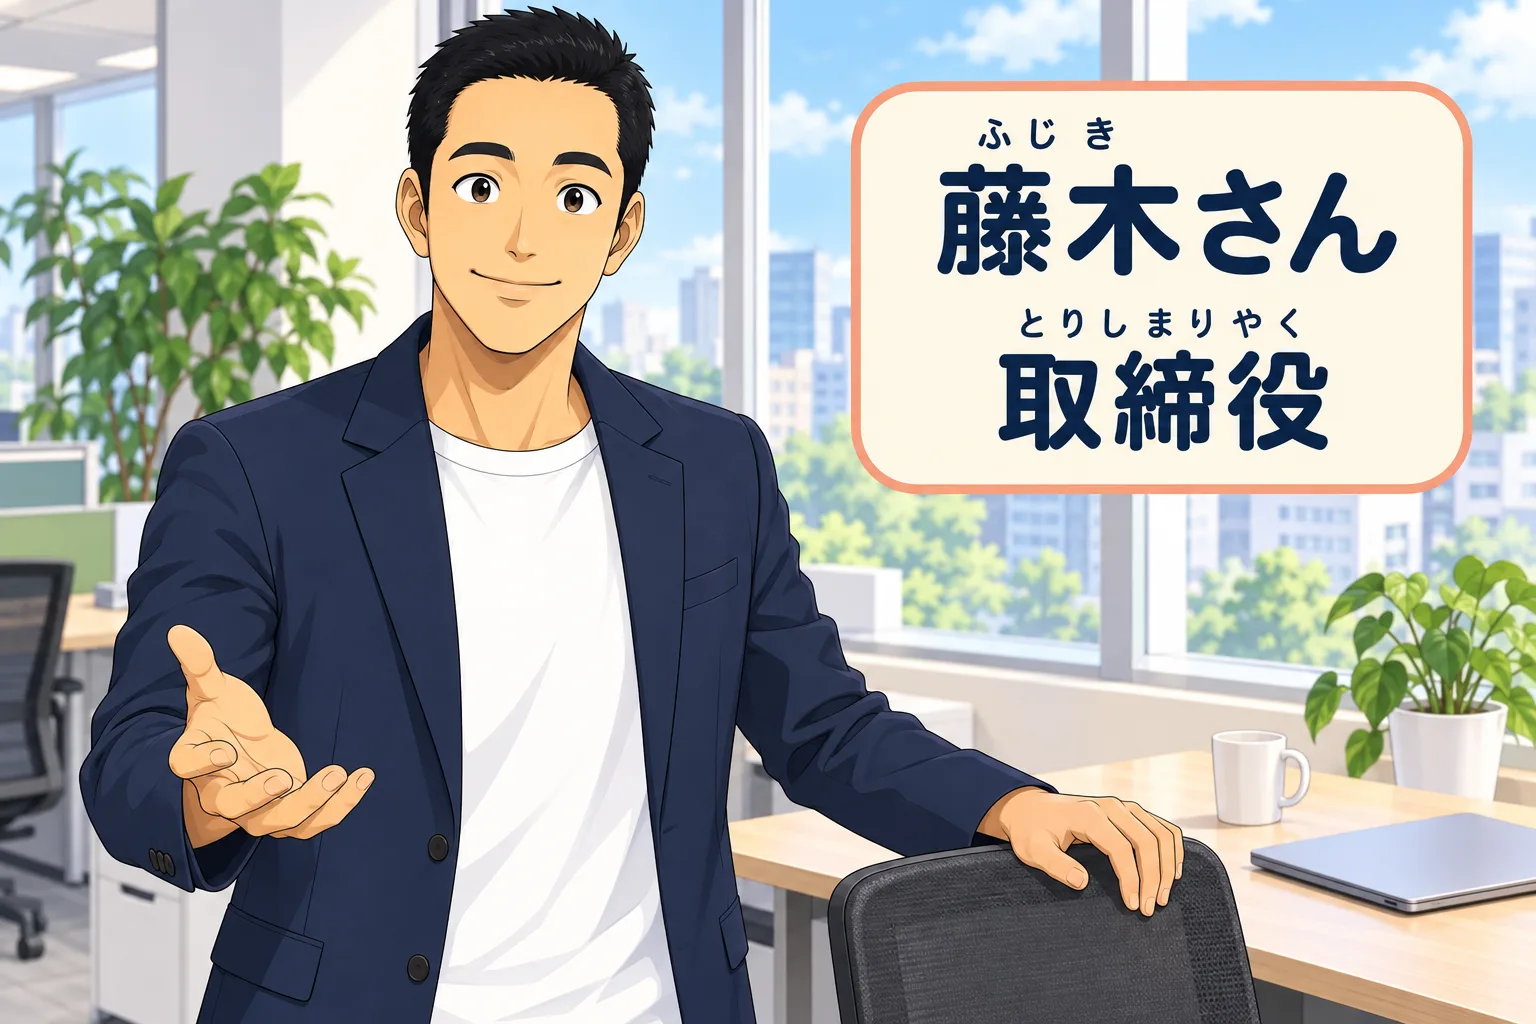
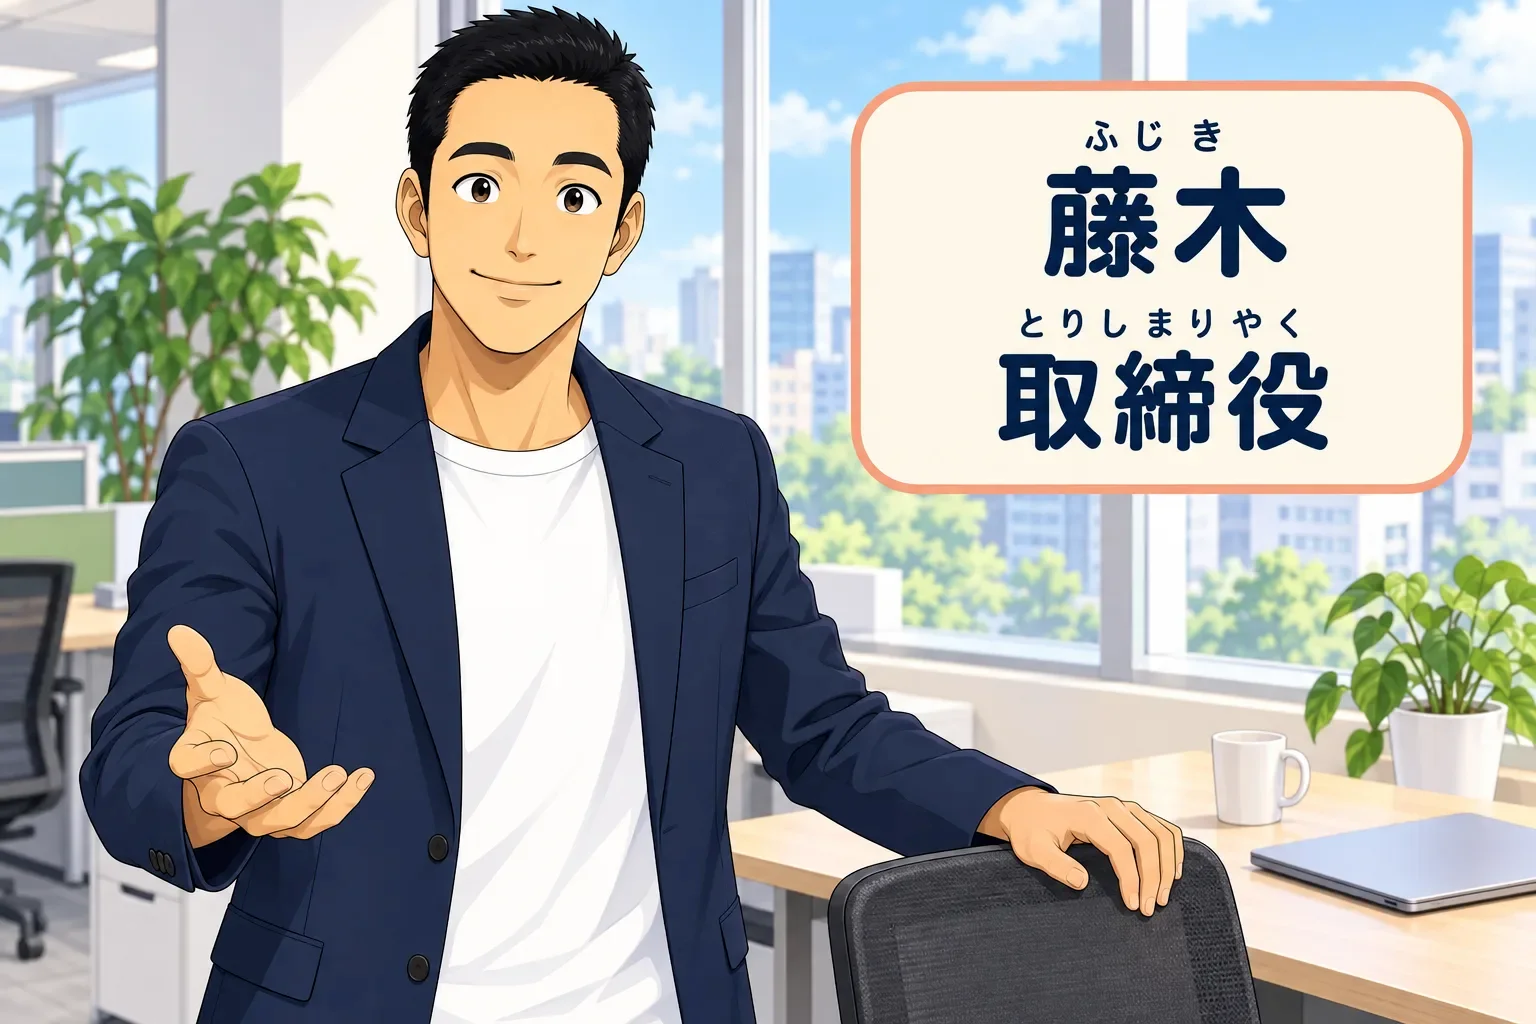
リスニング「悪い ニュースの 報告」の 表紙を 差しかえる（札を 藤木さん → 藤木）
いただいた cover.webp（1536×1024・118.6KB）に 差しかえた。絵は これまでと 同じで、
右上の 札の 字だけが「藤木さん」から「藤木」に なって いる。本文の セリフは
これまでどおり「藤木さん」と 呼ぶ（変えて いない）。

**札の 字は 3か所で 持って いる**ので 全部 そろえた——ここが ずれると、
先生が スタジオから「少し 直して 作り直す」を 押した ときに **古い 指示で
再生成される**（いちばん 気づけない 壊れ方。gen_hourensou_content.mjs の 註）。

- public/img/listening/houkoku_listening/cover.webp … 絵その もの
- scripts/images/houkoku_listening_fujiki.json … 台帳（生成の 正）の `text`
- content/listening/houkoku_listening.json … 教材に 焼かれた `cover.prompt`
- src/content/asset-versions.generated.ts … 版番号（`npm run gen:content` で 更新。
  これを 忘れると 古い 絵が キャッシュから 出つづける）

検証: vitest 117ファイル 1713件 緑（image_size を 含む）。lint:content エラー 0。
大きさ・縦横（1536×1024）は 差しかえ前と 同じ。

Changed region(s): [[0.5938, 0.125, 0.9062, 0.2812]]

diff --git a/src/content/git-contents.generated.ts b/src/content/git-contents.generated.ts
@@ -87,7 +87,7 @@ export const GIT_CONTENTS: readonly unknown[] = [
   // content/links/youken_recruit_sample.json
   {"kind":"link","id":"youken_recruit_sample","title":"完成例：Aoba 採用ページ","description":"先生が 要件定義書を もとに 作った 採用ページです。自分たちの ワイヤーフレームと 見くらべましょう。","url":"/tools/youken/recruit.html","view":"fullscreen","height":720,"newTab":false,"note":"上から 下まで 見て、2つの 仕事の ちがいが どこで わかるか さがして ください。","furigana":[["要件定義書","ようけんていぎしょ"],["完成例","かんせいれい"],["完成","かんせい"],["採用","さいよう"],["先生","せんせい"],["作っ","つくっ"],["自分","じぶん"],["写真","しゃしん"],["物語","ものがたり"],["仕事","しごと"],["応募","おうぼ"],["例","れい"],["見","み"],["上","うえ"],["下","した"],["私","わたし"]]},
   // content/listening/houkoku_listening.json
-  {"kind":"listening","id":"houkoku_listening","title":"リスニング：悪い ニュースの 報告","description":"ヘンディさんが、上司の 藤木さんに 報告を します。藤木さんは ネクストメイクの「取締役」です。藤木さんは、いつも お客様と 直接 話を して います。ですから、もし ヘンディさんの プログラミングで 何か 問題が あっても、藤木さんが お客様に すぐ 確認して くれます。","focus":"ヘンディさんが 悪い ニュースを どう 伝えるかに 注目して 聞いて みましょう。","participants":[{"id":"hendy","name":"ヘンディ","role":"プログラマー","accent":"leaf"},{"id":"fujiki","name":"藤木","role":"取締役","accent":"sky"}],"script":[{"speaker":"narration","text":"はじめに「報告」に ついて 話します。"},{"speaker":"narration","text":"プログラミングで スケジュールに 遅れそうな とき、どう しますか。"},{"speaker":"narration","text":"「怒られるかも しれない」と 思って、隠す ことは いけません。"},{"speaker":"narration","text":"悪い ニュースほど、早く 言わなければ なりません。"},{"speaker":"narration","text":"これは とても 大切です。では、会話を 聞いて みましょう。"},{"speaker":"hendy","text":"藤木さん、お伝えしたい ことが あるんですが、今 少し お時間 よろしいでしょうか。"},{"speaker":"fujiki","text":"はい、何ですか。"},{"speaker":"hendy","text":"今 作って いる システムに 問題が あります。文字を 入力すると システムが 止まって しまうという バグが 見つかりました。おそらく 設定の ミスだと 思います。"},{"speaker":"fujiki","text":"そうですか。直すのに、どのくらい 時間が かかりますか。来週の テストに 間に合いますか。"},{"speaker":"hendy","text":"調べて みましたが、1日くらい かかりそうです。ですから、来週の テストを 1日 遅らせて いただけませんでしょうか。"},{"speaker":"fujiki","text":"わかりました。テストが 遅れるのは 困りますが、テストの 途中で 止まるより いいです。正直に、早く 教えて くれて ありがとう ございます。予定を 変えますから、すぐに 直して ください。"},{"speaker":"hendy","text":"ありがとう ございます。すぐに 始めます。"}],"audioUrl":"/audio/hourensou/houkoku.wav","cover":{"src":"/img/listening/houkoku_listening/cover.webp","prompt":"Warm modern anime illustration, like a friendly Japanese educational manga — clean confident black linework, flat cel shading with gentle light, bright natural daylight, soft pastel palette of sky blue, cream and coral, rounded friendly shapes. A tidy contemporary Japanese software office with real desks, chairs, windows, plants, mugs and laptops. People are drawn as real human beings with natural proportions, warm friendly faces and exactly five fingers on each hand. Every picture is a REAL PLACE seen from a natural camera angle, and the subject FILLS THE WHOLE FRAME. The label sits on a soft cream panel with a rounded border, large and easy to read in one pass. Fujiki the director, ALONE — he is the only person in the picture. Taken from the attached character sheet: a Japanese man in his late twenties, very short cropped black hair, smooth flat skin with absolutely no nasolabial folds and no cheek or forehead lines, thick eyebrows, big bright dark brown eyes, navy blazer worn open over a plain white crew-neck T-shirt, no tie, no glasses. He stands beside his desk in a bright contemporary Japanese software office, turned toward the viewer, seen from the waist up and filling the left two thirds of the frame — the camera is where the young employee who has come to talk to him would stand. His expression is warm and attentive with a calm closed-mouth smile and eyebrows lifted a little in interest: he is ready to LISTEN, not to scold. One hand is open at chest height in a welcoming 'please, go ahead' gesture, the other rests lightly on the back of his office chair; exactly five fingers on each hand, no tangled or merged fingers. Behind him a big window with soft daylight, a green plant, a mug and a closed laptop on the tidy desk; every screen, paper and whiteboard is completely blank. In the upper right, at his shoulder height, one soft cream panel with a rounded border carries the two Japanese words given below, stacked on two lines. The Japanese words in this picture are exactly: 藤木さん / 取締役. Japanese lettering — read this part carefully. The picture contains ONLY the Japanese words listed in the scene above, and no other writing at all. Print each word LARGE and horizontally in a rounded gothic Japanese font, with generous space around it. Directly above every kanji, print its reading in small hiragana (furigana), centred over that kanji, clearly separated from it, at about 45% of the kanji height, so that the kanji and the furigana both stay sharp and easy to read at a glance. Words written only in hiragana or katakana take no furigana. Spell every character exactly as given. No other letters, numbers, logos or watermarks anywhere in the picture. Never: photo-realistic rendering, harsh shadows, extra or merged fingers, distorted hands, dark or scary mood, angry or crying faces, watermarks, real company logos or brand marks of any kind, national flags, country outlines, maps with borders, tiny cluttered text, paragraphs of text, 3D render, flat vector icon art, pictograms floating on an empty background, robots, mascots.","refs":["/img/characters/fujiki/sheet.webp"],"status":"done"},"keywords":["報告","問題","バグ","設定","正直","予定"],"revealGoal":30,"mode":"player","check":{"minLength":2,"maxMiss":5,"showScript":false,"showTyping":true},"furigana":[["藤木取締役","ふじきとりしまりやく"],["何ですか","なんですか"],["取締役","とりしまりやく"],["報告","ほうこく"],["藤木","ふじき"],["予定","よてい"],["正直","しょうじき"],["問題","もんだい"],["設定","せってい"],["途中","とちゅう"],["入力","にゅうりょく"],["文字","もじ"],["大切","たいせつ"],["来週","らいしゅう"],["時間","じかん"],["注目","ちゅうもく"],["会話","かいわ"],["上司","じょうし"],["確認","かくにん"],["客様","きゃくさま"],["直接","ちょくせつ"],["話を","はなしを"],["今","いま"],["時","じ"],["日","にち"],["言","い"],["聞","き"],["見","み"],["思","おも"],["作","つく"],["直","なお"],["止","と"],["遅","おく"],["早","はや"],["悪","わる"],["始","はじ"],["教","おし"],["伝","つた"],["困","こま"],["隠","かく"],["怒","おこ"],["調","しら"],["変","か"],["入","い"],["何","なに"],["話","はな"],["大","おお"],["少","すこ"],["中","なか"],["報","ほう"],["間","ま"],["合","あ"],["正","ただ"],["文","ぶん"],["切","き"],["力","ちから"],["役","やく"],["目","め"],["来","き"],["上","うえ"],["様","さま"]]},
+  {"kind":"listening","id":"houkoku_listening","title":"リスニング：悪い ニュースの 報告","description":"ヘンディさんが、上司の 藤木さんに 報告を します。藤木さんは ネクストメイクの「取締役」です。藤木さんは、いつも お客様と 直接 話を して います。ですから、もし ヘンディさんの プログラミングで 何か 問題が あっても、藤木さんが お客様に すぐ 確認して くれます。","focus":"ヘンディさんが 悪い ニュースを どう 伝えるかに 注目して 聞いて みましょう。","participants":[{"id":"hendy","name":"ヘンディ","role":"プログラマー","accent":"leaf"},{"id":"fujiki","name":"藤木","role":"取締役","accent":"sky"}],"script":[{"speaker":"narration","text":"はじめに「報告」に ついて 話します。"},{"speaker":"narration","text":"プログラミングで スケジュールに 遅れそうな とき、どう しますか。"},{"speaker":"narration","text":"「怒られるかも しれない」と 思って、隠す ことは いけません。"},{"speaker":"narration","text":"悪い ニュースほど、早く 言わなければ なりません。"},{"speaker":"narration","text":"これは とても 大切です。では、会話を 聞いて みましょう。"},{"speaker":"hendy","text":"藤木さん、お伝えしたい ことが あるんですが、今 少し お時間 よろしいでしょうか。"},{"speaker":"fujiki","text":"はい、何ですか。"},{"speaker":"hendy","text":"今 作って いる システムに 問題が あります。文字を 入力すると システムが 止まって しまうという バグが 見つかりました。おそらく 設定の ミスだと 思います。"},{"speaker":"fujiki","text":"そうですか。直すのに、どのくらい 時間が かかりますか。来週の テストに 間に合いますか。"},{"speaker":"hendy","text":"調べて みましたが、1日くらい かかりそうです。ですから、来週の テストを 1日 遅らせて いただけませんでしょうか。"},{"speaker":"fujiki","text":"わかりました。テストが 遅れるのは 困りますが、テストの 途中で 止まるより いいです。正直に、早く 教えて くれて ありがとう ございます。予定を 変えますから、すぐに 直して ください。"},{"speaker":"hendy","text":"ありがとう ございます。すぐに 始めます。"}],"audioUrl":"/audio/hourensou/houkoku.wav","cover":{"src":"/img/listening/houkoku_listening/cover.webp","prompt":"Warm modern anime illustration, like a friendly Japanese educational manga — clean confident black linework, flat cel shading with gentle light, bright natural daylight, soft pastel palette of sky blue, cream and coral, rounded friendly shapes. A tidy contemporary Japanese software office with real desks, chairs, windows, plants, mugs and laptops. People are drawn as real human beings with natural proportions, warm friendly faces and exactly five fingers on each hand. Every picture is a REAL PLACE seen from a natural camera angle, and the subject FILLS THE WHOLE FRAME. The label sits on a soft cream panel with a rounded border, large and easy to read in one pass. Fujiki the director, ALONE — he is the only person in the picture. Taken from the attached character sheet: a Japanese man in his late twenties, very short cropped black hair, smooth flat skin with absolutely no nasolabial folds and no cheek or forehead lines, thick eyebrows, big bright dark brown eyes, navy blazer worn open over a plain white crew-neck T-shirt, no tie, no glasses. He stands beside his desk in a bright contemporary Japanese software office, turned toward the viewer, seen from the waist up and filling the left two thirds of the frame — the camera is where the young employee who has come to talk to him would stand. His expression is warm and attentive with a calm closed-mouth smile and eyebrows lifted a little in interest: he is ready to LISTEN, not to scold. One hand is open at chest height in a welcoming 'please, go ahead' gesture, the other rests lightly on the back of his office chair; exactly five fingers on each hand, no tangled or merged fingers. Behind him a big window with soft daylight, a green plant, a mug and a closed laptop on the tidy desk; every screen, paper and whiteboard is completely blank. In the upper right, at his shoulder height, one soft cream panel with a rounded border carries the two Japanese words given below, stacked on two lines. The Japanese words in this picture are exactly: 藤木 / 取締役. Japanese lettering — read this part carefully. The picture contains ONLY the Japanese words listed in the scene above, and no other writing at all. Print each word LARGE and horizontally in a rounded gothic Japanese font, with generous space around it. Directly above every kanji, print its reading in small hiragana (furigana), centred over that kanji, clearly separated from it, at about 45% of the kanji height, so that the kanji and the furigana both stay sharp and easy to read at a glance. Words written only in hiragana or katakana take no furigana. Spell every character exactly as given. No other letters, numbers, logos or watermarks anywhere in the picture. Never: photo-realistic rendering, harsh shadows, extra or merged fingers, distorted hands, dark or scary mood, angry or crying faces, watermarks, real company logos or brand marks of any kind, national flags, country outlines, maps with borders, tiny cluttered text, paragraphs of text, 3D render, flat vector icon art, pictograms floating on an empty background, robots, mascots.","refs":["/img/characters/fujiki/sheet.webp"],"status":"done"},"keywords":["報告","問題","バグ","設定","正直","予定"],"revealGoal":30,"mode":"player","check":{"minLength":2,"maxMiss":5,"showScript":false,"showTyping":true},"furigana":[["藤木取締役","ふじきとりしまりやく"],["何ですか","なんですか"],["取締役","とりしまりやく"],["報告","ほうこく"],["藤木","ふじき"],["予定","よてい"],["正直","しょうじき"],["問題","もんだい"],["設定","せってい"],["途中","とちゅう"],["入力","にゅうりょく"],["文字","もじ"],["大切","たいせつ"],["来週","らいしゅう"],["時間","じかん"],["注目","ちゅうもく"],["会話","かいわ"],["上司","じょうし"],["確認","かくにん"],["客様","きゃくさま"],["直接","ちょくせつ"],["話を","はなしを"],["今","いま"],["時","じ"],["日","にち"],["言","い"],["聞","き"],["見","み"],["思","おも"],["作","つく"],["直","なお"],["止","と"],["遅","おく"],["早","はや"],["悪","わる"],["始","はじ"],["教","おし"],["伝","つた"],["困","こま"],["隠","かく"],["怒","おこ"],["調","しら"],["変","か"],["入","い"],["何","なに"],["話","はな"],["大","おお"],["少","すこ"],["中","なか"],["報","ほう"],["間","ま"],["合","あ"],["正","ただ"],["文","ぶん"],["切","き"],["力","ちから"],["役","やく"],["目","め"],["来","き"],["上","うえ"],["様","さま"]]},
   // content/listening/kaisha_shugyo_keitai_listening.json
   {"kind":"listening","id":"kaisha_shugyo_keitai_listening","title":"リスニング：仕事の 3つの タイプ","description":"IT の 仕事の 3つの タイプを 聞きます。","focus":"SES・受託開発・自社開発の 「どこで 働くか」に 注目して 聞きましょう。","participants":[{"id":"hendy","name":"ヘンディ","role":"プログラマー","accent":"leaf"}],"script":[{"speaker":"hendy","text":"ITの 仕事には、3つの タイプが あります。SES、受託開発、自社開発です。どこで 働くか、何を 作るかが 違います。"},{"speaker":"hendy","text":"SESは、お客様の 会社へ 行って 働きます。お客様の チームで、一緒に 仕事を します。いろいろな 会社へ 行けるのが いい ところです。"},{"speaker":"hendy","text":"受託開発は、お客様に 頼まれた ものを 作ります。作る 場所は 自分の 会社です。お客様と 一緒に 作って、喜んで もらえるのが いい ところです。"},{"speaker":"hendy","text":"自社開発は、自分の 会社の サービスを 自分の 会社で 作ります。たとえば NMClaw や 観光DXです。自分たちの アイデアで アプリを 作れるのが いい ところです。"},{"speaker":"hendy","text":"ネクストメイクは、この 3つを 全部 やって います。だから、やりたい タイプを 選べます。"},{"speaker":"hendy","text":"同じ エンジニアでも、タイプが 違うと、仕事も 変わります。あなたは どれを やって みたいですか。"}],"audioUrl":"/audio/listening/kaisha_shugyo_keitai_listening.wav","cover":{"src":"/img/listening/kaisha_shugyo_keitai/cover.webp","refs":[],"status":"done"},"keywords":["SES","受託開発","自社開発","会社","仕事","サービス"],"revealGoal":30,"mode":"player","check":{"minLength":2,"maxMiss":5,"showScript":true,"showTyping":true},"furigana":[["受託開発","じゅたくかいはつ"],["自社開発","じしゃかいはつ"],["客様","きゃくさま"],["会社","かいしゃ"],["仕事","しごと"],["場所","ばしょ"],["自分","じぶん"],["一緒","いっしょ"],["観光","かんこう"],["全部","ぜんぶ"],["注目","ちゅうもく"],["働","はたら"],["何","なに"],["作","つく"],["行","い"],["頼","たの"],["選","えら"],["変","か"],["同","おな"],["聞","き"],["違","ちが"],["喜","よろこ"]]},
   // content/listening/renraku_listening.json

diff --git a/src/content/asset-versions.generated.ts b/src/content/asset-versions.generated.ts
@@ -254,7 +254,7 @@ export const ASSET_VERSIONS: Readonly<Record<string, string>> = {
   "/img/kaihatsu/testing.webp": "7ded5694",
   "/img/kaihatsu/waterfall_agile.webp": "c5cd5b8f",
   "/img/kaihatsu/youken_teigi.webp": "c7b97044",
-  "/img/listening/houkoku_listening/cover.webp": "2583a7c5",
+  "/img/listening/houkoku_listening/cover.webp": "8a25613e",
   "/img/listening/kaisha_shugyo_keitai/cover.webp": "a595f992",
   "/img/manga/hajimari_manga/p1c1.webp": "ca158be8",
   "/img/manga/hajimari_manga/p1c2.webp": "533096d9",
